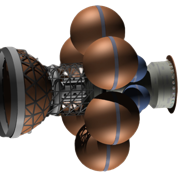
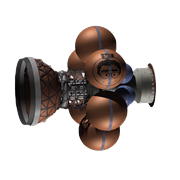
Refactor 'StarshipBridge' component to include a lightbox feature for viewing the Daedalus starship image. Update CSS for improved styling and interactivity. Correct mathematical notation in README and enhance metadata for better SEO and sharing capabilities.

diff --git a/apps/star-trek/src/components/StarshipBridge.tsx b/apps/star-trek/src/components/StarshipBridge.tsx
@@ -1,6 +1,7 @@
 "use client";
 
 import Image from "next/image";
+import { createPortal } from "react-dom";
 import { useCallback, useEffect, useId, useLayoutEffect, useMemo, useRef, useState } from "react";
 import packageJson from "../../package.json";
 import Starfield from "./Starfield";
@@ -45,6 +46,8 @@ const GITHUB_APP_URL =
   "https://github.com/seap-udea/seap-udea.github.io/tree/main/apps/star-trek";
 
 const WHATSNEW_URL = `${GITHUB_APP_URL.replace("/tree/", "/blob/")}/WHATSNEW.md`;
+
+const DAEDALUS_SRC = `${process.env.NEXT_PUBLIC_BASE_PATH ?? ""}/daedalus.png`;
 
 /** Duración en segundos de la reproducción completa del viaje a velocidad ×1. */
 const PLAYBACK_SECONDS = 18;
@@ -225,6 +228,135 @@ function AcademyFooter() {
         </div>
       </div>
     </footer>
+  );
+}
+
+function DaedalusCredit() {
+  return (
+    <>
+      La silueta del título es una nave tipo{" "}
+      <a
+        href="https://en.wikipedia.org/wiki/Project_Daedalus"
+        target="_blank"
+        rel="noreferrer"
+      >
+        Daedalus
+      </a>
+      , el estudio de la British Interplanetary Society (década de 1970) para un
+      viaje de fusión a la estrella de Barnard: esferas de combustible, tobera y
+      carga útil a proa. Otros conceptos clásicos de naves interestelares son
+      los{" "}
+      <a
+        href="https://markbaumann.net/interstellar-ramjets-and-antimatter-drives/"
+        target="_blank"
+        rel="noreferrer"
+      >
+        Bussard ramjets
+      </a>{" "}
+      —que recolectarían hidrógeno del medio interestelar— y los motores de
+      fusión. Véase también{" "}
+      <a
+        href="https://www.damninteresting.com/the-daedalus-starship/"
+        target="_blank"
+        rel="noreferrer"
+      >
+        The Daedalus Starship
+      </a>
+      . Imagen: concepto de Daedalus en{" "}
+      <a
+        href="https://en.wikipedia.org/wiki/Project_Daedalus#/media/File:Daedalus_Spaceship_concept.jpg"
+        target="_blank"
+        rel="noreferrer"
+      >
+        Wikimedia Commons
+      </a>
+      .
+    </>
+  );
+}
+
+function DaedalusPortrait() {
+  const [open, setOpen] = useState(false);
+  const triggerRef = useRef<HTMLButtonElement>(null);
+  const closeRef = useRef<HTMLButtonElement>(null);
+
+  const close = useCallback(() => setOpen(false), []);
+
+  useEffect(() => {
+    if (!open) return;
+    const onKey = (event: KeyboardEvent) => {
+      if (event.key === "Escape") close();
+    };
+    const previousOverflow = document.body.style.overflow;
+    document.addEventListener("keydown", onKey);
+    document.body.style.overflow = "hidden";
+    closeRef.current?.focus();
+    const trigger = triggerRef.current;
+    return () => {
+      document.removeEventListener("keydown", onKey);
+      document.body.style.overflow = previousOverflow;
+      trigger?.focus();
+    };
+  }, [open, close]);
+
+  return (
+    <>
+      <button
+        ref={triggerRef}
+        type="button"
+        className="title-ship-button"
+        aria-haspopup="dialog"
+        aria-expanded={open}
+        aria-label="Ver la nave Daedalus a tamaño completo"
+        onClick={() => setOpen(true)}
+      >
+        <Image
+          className="title-ship"
+          src={DAEDALUS_SRC}
+          alt=""
+          width={240}
+          height={180}
+          priority
+        />
+      </button>
+      {open
+        ? createPortal(
+            <div
+              className="ship-lightbox"
+              role="dialog"
+              aria-modal="true"
+              aria-label="Nave interestelar tipo Daedalus"
+              onClick={close}
+            >
+              <button
+                ref={closeRef}
+                type="button"
+                className="ship-lightbox-close"
+                aria-label="Cerrar"
+                onClick={close}
+              >
+                ×
+              </button>
+              <figure
+                className="ship-lightbox-figure"
+                onClick={(event) => event.stopPropagation()}
+              >
+                <Image
+                  className="ship-lightbox-image"
+                  src={DAEDALUS_SRC}
+                  alt="Nave interestelar tipo Daedalus"
+                  width={960}
+                  height={720}
+                />
+                <figcaption className="ship-lightbox-caption">
+                  <DaedalusCredit />
+                </figcaption>
+              </figure>
+            </div>,
+            document.body,
+          )
+        : null}
+    </>
   );
 }
 
@@ -528,14 +660,7 @@ export default function StarshipBridge() {
       <div className="bridge-inner">
         <header className="bridge-header">
           <div className="title-grid">
-            <Image
-              className="title-ship"
-              src={`${process.env.NEXT_PUBLIC_BASE_PATH ?? ""}/daedalus.png`}
-              alt="Nave interestelar tipo Daedalus"
-              width={240}
-              height={180}
-              priority
-            />
+            <DaedalusPortrait />
             <div className="title-copy">
               <h1>
                 <i>Star trek</i>
@@ -1489,43 +1614,7 @@ function TheoryPanel() {
           .
         </p>
         <p>
-          La silueta del título es una nave tipo{" "}
-          <a
-            href="https://en.wikipedia.org/wiki/Project_Daedalus"
-            target="_blank"
-            rel="noreferrer"
-          >
-            Daedalus
-          </a>
-          , el estudio de la British Interplanetary Society (década de 1970)
-          para un viaje de fusión a la estrella de Barnard: esferas de
-          combustible, tobera y carga útil a proa. Otros conceptos clásicos
-          de naves interestelares son los{" "}
-          <a
-            href="https://markbaumann.net/interstellar-ramjets-and-antimatter-drives/"
-            target="_blank"
-            rel="noreferrer"
-          >
-            Bussard ramjets
-          </a>{" "}
-          —que recolectarían hidrógeno del medio interestelar— y los motores
-          de fusión. Véase también{" "}
-          <a
-            href="https://www.damninteresting.com/the-daedalus-starship/"
-            target="_blank"
-            rel="noreferrer"
-          >
-            The Daedalus Starship
-          </a>
-          . Imagen: concepto de Daedalus en{" "}
-          <a
-            href="https://en.wikipedia.org/wiki/Project_Daedalus#/media/File:Daedalus_Spaceship_concept.jpg"
-            target="_blank"
-            rel="noreferrer"
-          >
-            Wikimedia Commons
-          </a>
-          .
+          <DaedalusCredit />
         </p>
       </div>
     </section>

diff --git a/apps/star-trek/src/app/globals.css b/apps/star-trek/src/app/globals.css
@@ -133,12 +133,95 @@ a {
   align-items: center;
 }
 
-.title-ship {
+.title-ship-button {
   grid-area: ship;
+  display: block;
+  padding: 0;
+  border: 0;
+  background: transparent;
+  cursor: zoom-in;
+  line-height: 0;
+  border-radius: 8px;
+}
+
+.title-ship-button:hover .title-ship,
+.title-ship-button:focus-visible .title-ship {
+  filter: drop-shadow(0 0 22px rgba(124, 232, 255, 0.5));
+}
+
+.title-ship {
+  display: block;
   width: auto;
   height: clamp(88px, 14vw, 148px);
   object-fit: contain;
   filter: drop-shadow(0 0 18px rgba(124, 232, 255, 0.28));
+  transition: filter 0.18s ease;
+}
+
+.ship-lightbox {
+  position: fixed;
+  inset: 0;
+  z-index: 40;
+  display: grid;
+  place-items: center;
+  padding: clamp(20px, 4vw, 56px);
+  background: rgba(2, 5, 12, 0.86);
+  backdrop-filter: blur(10px);
+  cursor: zoom-out;
+}
+
+.ship-lightbox-figure {
+  margin: 0;
+  display: flex;
+  flex-direction: column;
+  align-items: center;
+  gap: 16px;
+  max-width: min(960px, 92vw);
+  cursor: default;
+}
+
+.ship-lightbox-image {
+  max-width: 100%;
+  max-height: 68vh;
+  width: auto;
+  height: auto;
+  object-fit: contain;
+  filter: drop-shadow(0 0 18px rgba(124, 232, 255, 0.28));
+}
+
+.ship-lightbox-caption {
+  margin: 0;
+  max-width: 42rem;
+  color: var(--muted);
+  font-size: 0.78rem;
+  line-height: 1.55;
+  text-align: justify;
+  hyphens: auto;
+  cursor: auto;
+}
+
+.ship-lightbox-caption a {
+  color: var(--accent);
+}
+
+.ship-lightbox-close {
+  position: absolute;
+  top: 14px;
+  right: 16px;
+  width: 40px;
+  height: 40px;
+  border: 1px solid var(--line);
+  border-radius: 10px;
+  background: rgba(6, 13, 25, 0.86);
+  color: var(--ink);
+  cursor: pointer;
+  font-size: 1.5rem;
+  line-height: 1;
+}
+
+.ship-lightbox-close:hover {
+  border-color: var(--line-strong);
+  color: var(--accent);
 }
 
 .title-copy {

diff --git a/apps/star-trek/src/app/layout.tsx b/apps/star-trek/src/app/layout.tsx
@@ -18,10 +18,35 @@ const orbitron = Orbitron({
   weight: ["500", "700", "900"],
 });
 
+const siteUrl = "https://seap-udea.github.io/apps/star-trek";
+const shareImage = {
+  url: "/og.png",
+  width: 1200,
+  height: 630,
+  alt: "Nave Daedalus con el logo de Dr. Z Academy en un tanque de combustible",
+};
+const description =
+  "Diseña un plan de vuelo interestelar con aceleración propia constante y observa la cinemática relativista desde el puente de mando.";
+
 export const metadata: Metadata = {
+  metadataBase: new URL(siteUrl),
   title: "Star trek",
-  description:
-    "Diseña un plan de vuelo interestelar con aceleración propia constante y observa la cinemática relativista desde el puente de mando.",
+  description,
+  openGraph: {
+    title: "Star trek",
+    description,
+    type: "website",
+    locale: "es_ES",
+    url: "./",
+    siteName: "Star trek",
+    images: [shareImage],
+  },
+  twitter: {
+    card: "summary_large_image",
+    title: "Star trek",
+    description,
+    images: [shareImage],
+  },
 };
 
 export default function RootLayout({

diff --git a/apps/star-trek/README.md b/apps/star-trek/README.md
@@ -83,7 +83,7 @@ v_{L}(\tau)
 \end{aligned}
 $$
 
-Introduciendo la **rapidez** $\theta = \operatorname{artanh}(v_{L})$, con
+Introduciendo la **rapidez** $\theta = \tanh^{-1}(v_{L})$, con
 $\gamma_{0} = \cosh\theta_{0}$ y $\gamma_{0} v_{L0} = \sinh\theta_{0}$, las tres
 expresiones colapsan: la rapidez crece linealmente con el tiempo propio,
 
@@ -133,7 +133,7 @@ $$
 $$
 \cosh\theta_{1} = 1 + \alpha\Delta x = 1 + 0{,}2065\times 4{,}2 = 1{,}867,
 \qquad
-\theta_{1} = \operatorname{arcosh}(1{,}867) = 1{,}237.
+\theta_{1} = \cosh^{-1}(1{,}867) = 1{,}237.
 $$
 
 **3. Todas las cantidades del reporte**
